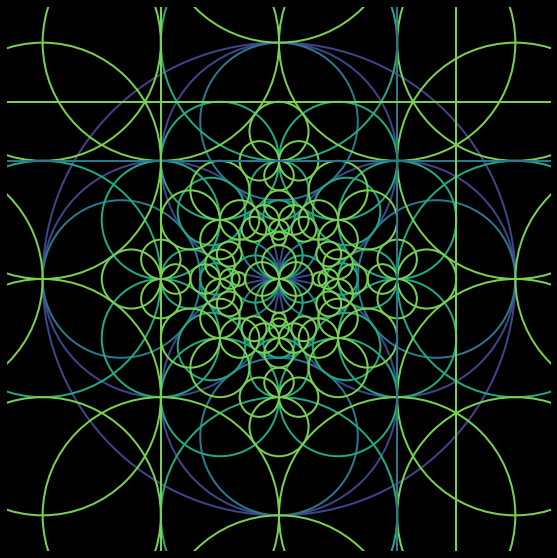
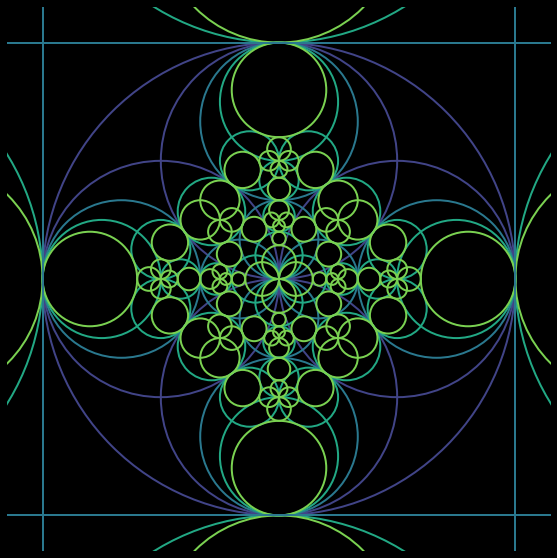
fixed Line.is_equal

diff --git a/planegeometry/examples/Inversions.py b/planegeometry/examples/Inversions.py
@@ -48,7 +48,7 @@ while k < n1:
         for i in range(n0):
             if i != j:
                 circ = gen0[i][0]
-                iota = geom.Inversion(circ.center, circ.radius)
+                iota = geom.Inversion(circ.center, circ.radius**2)
                 gen1[k] = (iota.invert_circle(gen0[j][0]), 1, i)
                 k += 1
 
@@ -61,7 +61,7 @@ while k < n2:
         for i in range(n0):
             if gen1[j][2] != i:
                 circ = gen0[i][0]
-                iota = geom.Inversion(circ.center, circ.radius)
+                iota = geom.Inversion(circ.center, circ.radius**2)
                 G = gen1[j][0]
                 if isinstance(G, geom.Circle):
                     gen2[k] = (iota.invert_circle(G), 2, i)
@@ -78,7 +78,7 @@ while k < n3:
         for i in range(n0):
             if gen2[j][2] != i:
                 circ = gen0[i][0]
-                iota = geom.Inversion(circ.center, circ.radius)
+                iota = geom.Inversion(circ.center, circ.radius**2)
                 G = gen2[j][0]
                 if isinstance(G, geom.Circle):
                     gen3[k] = (iota.invert_circle(G), 3, i)

diff --git a/planegeometry/planegeometry/geometry.py b/planegeometry/planegeometry/geometry.py
@@ -91,8 +91,8 @@ class Line:
         """
         do1 = self.direction_offset()
         do2 = line2.direction_offset()
-        do1 = (do1["direction"] % pi, do1["offset"])
-        do2 = (do2["direction"] % pi, do2["offset"])
+        do1 = (do1["direction"], do1["offset"])
+        do2 = (do2["direction"], do2["offset"])
         return np.allclose(do1, do2)
     
     def is_parallel(self, line2):
@@ -798,7 +798,7 @@ class Triangle:
         """
         AB = self.B - self.A
         AC = self.C - self.A
-        z = complex(*AB) * complex(*AC)
+        z = complex(*AB).conjugate() * complex(*AC)
         re = z.real
         im = z.imag
         re2 = re * re

diff --git a/planegeometry/examples/example1.py b/planegeometry/examples/example1.py
@@ -9,7 +9,7 @@ print("flatness", t.flatness)
 t.show()
 print(t.equal_detour_point())
 print(t.incircle())
-print(t.circumcircle())
+circ = t.circumcircle()
 
 print("******************************")
 ell1 = g.Ellipse((1,1), 5, 1, 30)
@@ -45,3 +45,6 @@ P = (-1, 5)
 Q = L.reflection(P)
 R = L.reflection(Q)
 print(P-R)
+
+circ = g.Circle((2,3), 2)
+iota = g.Inversion((1,2), 3)
